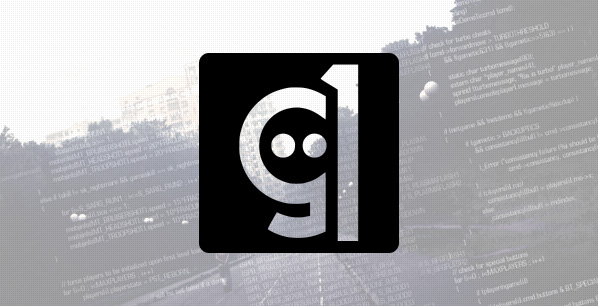
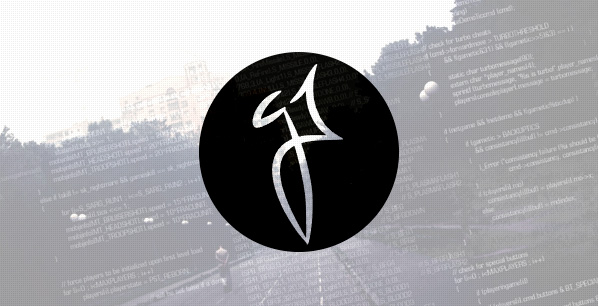
+

Changed region(s): [[0.3311, 0.1471, 0.6923, 0.8529], [0.3311, 0.1471, 0.4816, 0.4412]]

diff --git a/themes/g1/assets/css/main.css b/themes/g1/assets/css/main.css
@@ -52,12 +52,12 @@
   .main__logo_img,
   .main__logo_glitch {
 	display: block;
-	background-image: url('../images/g2.png');
+	background-image: url('../images/logo.jpg');
 	background-repeat: no-repeat;
 	background-size: cover;
 	width: 200px;
 	height: 200px;
-	border-radius: 10px;
+	border-radius: 100px;
 	/* background-color: #00000008; */
   }
   
